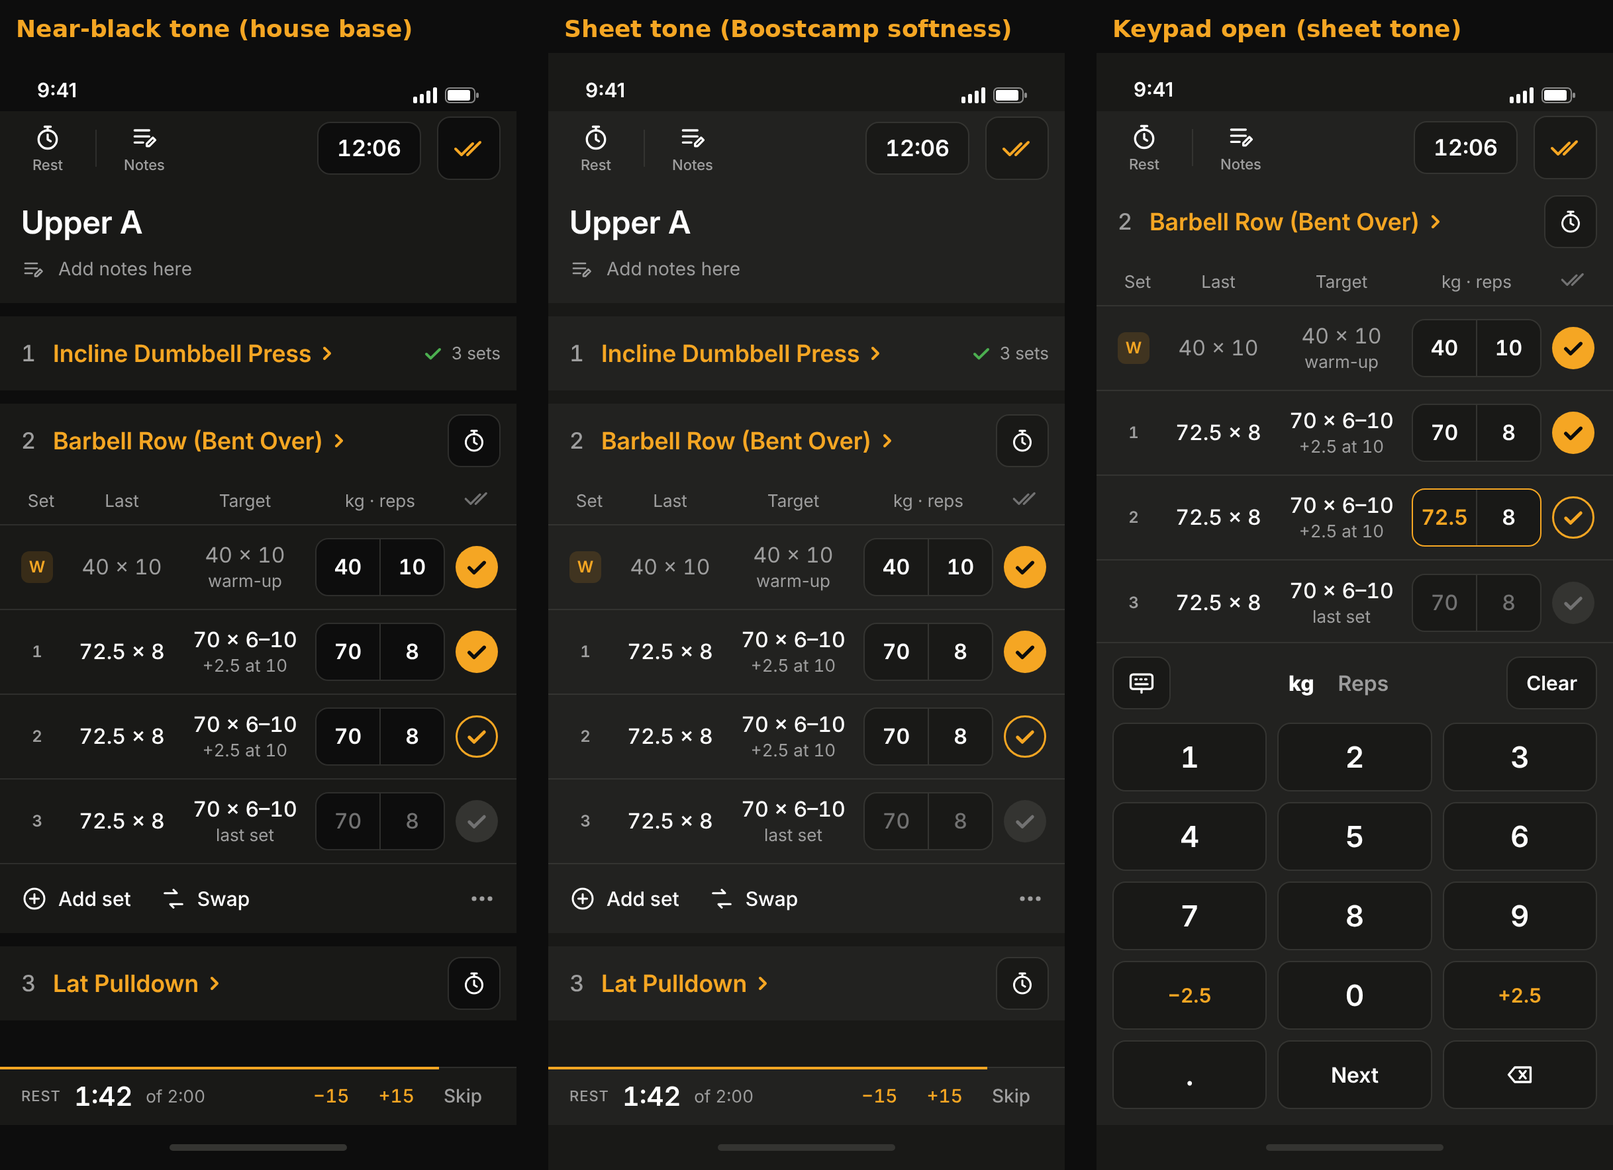
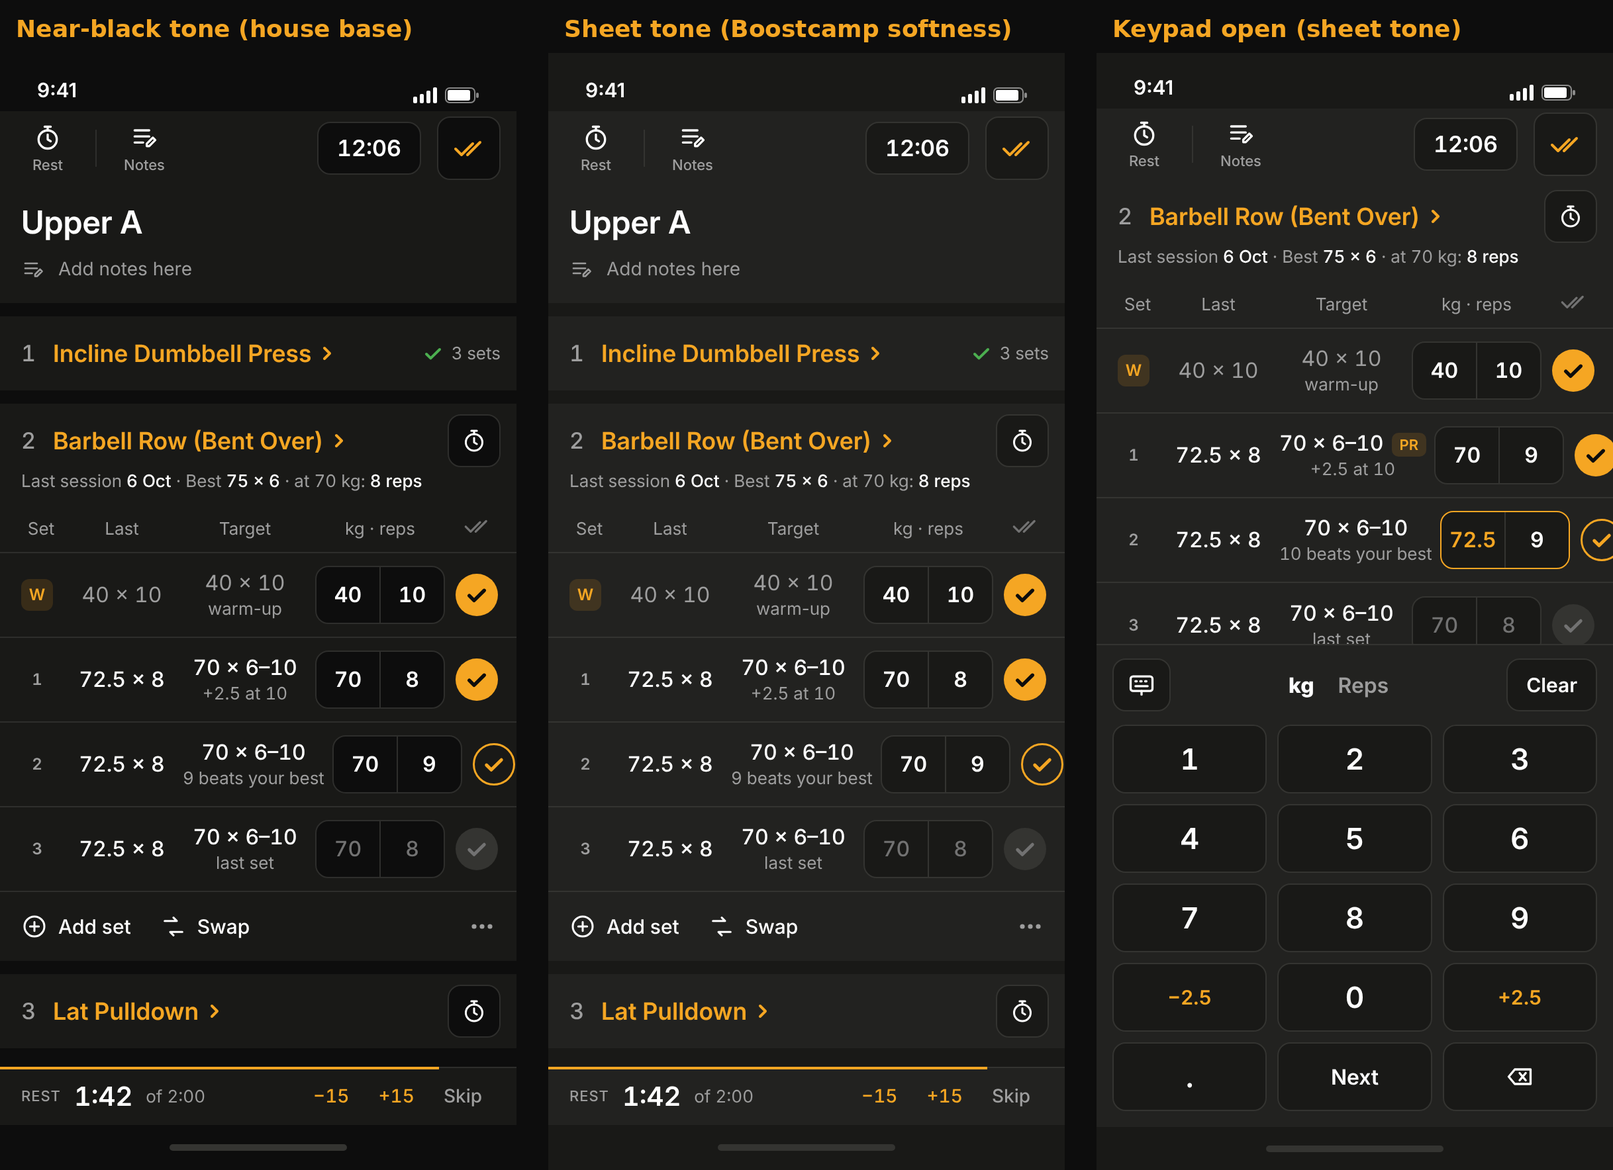
Workout logger rebuild: previous weights, reps and the PRs on the screen (D220 addendum 1)
Founder: "Make sure we have previous weights and reps and maybe even the
PRs on the screen so we can immediately go and beat them." The build
specification gains section 2a: last session on every row with a tap to
use it, a bests line under the exercise name (last date, heaviest set,
most reps at today's weight), the record threshold in the next row's
rule slot, a PR tag on a record-setting row; no estimated-max copy
returns. The drawings, the design reference and both page copies carry
the bests line and the tag.

diff --git a/docs/audit/workout-logger-audit-2026-10-06/12-design-reference.html b/docs/audit/workout-logger-audit-2026-10-06/12-design-reference.html
@@ -18,6 +18,9 @@
 .bc .band{height:10px;background:var(--pg)}
 .bc .sec{background:var(--sec)}
 .bc .xh{height:56px;display:flex;align-items:center;gap:10px;padding:0 12px 0 16px}
+.bc .bests{padding:0 16px 10px;margin-top:-6px;font-size:13px;line-height:17px;color:var(--t2)}
+.bc .bests b{color:var(--t1);font-weight:500}
+.bc .pr{display:inline-flex;align-items:center;height:18px;padding:0 6px;border-radius:5px;background:var(--abg);color:var(--a);font-size:11px;font-weight:600;margin-left:6px;vertical-align:middle}
 .bc .xh .idx{font-size:17px;font-weight:500;color:var(--t2);width:14px}
 .bc .xh .nm{font-size:18px;line-height:24px;font-weight:600;color:var(--a);display:flex;align-items:center;gap:4px;min-width:0;white-space:nowrap;overflow:hidden;text-overflow:ellipsis}
 .bc .xh .sq{margin-left:auto;width:40px;height:40px;display:flex;align-items:center;justify-content:center;background:var(--well);border:1px solid var(--wellbd);border-radius:10px;flex:0 0 auto}
@@ -82,10 +85,11 @@ html,body{margin:0;background:#0D0D0D} body{display:flex;gap:24px} .bc{border-ra
   <div class="band"></div>
   <div class="sec">
     <div class="xh"><span class="idx n">2</span><span class="nm">Barbell Row (Bent Over) <svg width="16" height="16" viewBox="0 0 16 16" fill="none" stroke="#F5A623" stroke-width="2" stroke-linecap="round" stroke-linejoin="round" style="flex:0 0 auto"><path d="M6 4l4 4-4 4"/></svg></span><span class="sq"><svg width="20" height="20" viewBox="0 0 24 24" fill="none" stroke="#FFFFFF" stroke-width="1.8" stroke-linecap="round" stroke-linejoin="round"><circle cx="12" cy="13.5" r="7.5"/><path d="M12 9.5v4l2.5 1.5M9.5 3h5M12 3v3"/></svg></span></div>
+    <div class="bests n">Last session <b>6 Oct</b> · Best <b>75 × 6</b> · at 70 kg: <b>8 reps</b></div>
     <div class="cols"><span class="c">Set</span><span class="c">Last</span><span class="c">Target</span><span class="c">kg · reps</span><span class="c"><svg width="20" height="20" viewBox="0 0 24 24" fill="none" stroke="#727272" stroke-width="2" stroke-linecap="round" stroke-linejoin="round" style="margin:0 auto"><path d="M2 12.5l4.5 4.5L15 8.5"/><path d="M11 17l9.5-9.5"/></svg></span></div>
     <div class="row"><span class="mk w">W</span><div class="cell dim"><div class="v n">40 × 10</div></div><div class="cell dim"><div class="v n">40 × 10</div><div class="s">warm-up</div></div><div class="wells n"><span>40</span><span>10</span></div><span class="chk on"><svg width="18" height="18" viewBox="0 0 16 16" fill="none" stroke="#0D0D0D" stroke-width="2.4" stroke-linecap="round" stroke-linejoin="round"><path d="M3 8.5l3.2 3.2L13 5"/></svg></span></div>
     <div class="row"><span class="mk n">1</span><div class="cell"><div class="v n">72.5 × 8</div></div><div class="cell"><div class="v n">70 × 6–10</div><div class="s n">+2.5 at 10</div></div><div class="wells n"><span>70</span><span>8</span></div><span class="chk on"><svg width="18" height="18" viewBox="0 0 16 16" fill="none" stroke="#0D0D0D" stroke-width="2.4" stroke-linecap="round" stroke-linejoin="round"><path d="M3 8.5l3.2 3.2L13 5"/></svg></span></div>
-    <div class="row"><span class="mk n">2</span><div class="cell"><div class="v n">72.5 × 8</div></div><div class="cell"><div class="v n">70 × 6–10</div><div class="s n">+2.5 at 10</div></div><div class="wells n"><span>70</span><span>8</span></div><span class="chk next"><svg width="18" height="18" viewBox="0 0 16 16" fill="none" stroke="#F5A623" stroke-width="2.2" stroke-linecap="round" stroke-linejoin="round"><path d="M3 8.5l3.2 3.2L13 5"/></svg></span></div>
+    <div class="row"><span class="mk n">2</span><div class="cell"><div class="v n">72.5 × 8</div></div><div class="cell"><div class="v n">70 × 6–10</div><div class="s n">9 beats your best</div></div><div class="wells n"><span>70</span><span>9</span></div><span class="chk next"><svg width="18" height="18" viewBox="0 0 16 16" fill="none" stroke="#F5A623" stroke-width="2.2" stroke-linecap="round" stroke-linejoin="round"><path d="M3 8.5l3.2 3.2L13 5"/></svg></span></div>
     <div class="row"><span class="mk n">3</span><div class="cell"><div class="v n">72.5 × 8</div></div><div class="cell"><div class="v n">70 × 6–10</div><div class="s">last set</div></div><div class="wells n ph"><span>70</span><span>8</span></div><span class="chk"><svg width="18" height="18" viewBox="0 0 16 16" fill="none" stroke="#727272" stroke-width="2.2" stroke-linecap="round" stroke-linejoin="round"><path d="M3 8.5l3.2 3.2L13 5"/></svg></span></div>
     <div class="ft"><span><svg width="20" height="20" viewBox="0 0 24 24" fill="none" stroke="#FFFFFF" stroke-width="1.8" stroke-linecap="round"><circle cx="12" cy="12" r="9"/><path d="M12 8v8M8 12h8"/></svg>Add set</span><span><svg width="20" height="20" viewBox="0 0 24 24" fill="none" stroke="#FFFFFF" stroke-width="1.8" stroke-linecap="round" stroke-linejoin="round"><path d="M4 7h11l-3-3M20 17H9l3 3"/></svg>Swap</span><span class="more"><svg width="20" height="20" viewBox="0 0 20 20" fill="#9E9E9E"><circle cx="4" cy="10" r="1.8"/><circle cx="10" cy="10" r="1.8"/><circle cx="16" cy="10" r="1.8"/></svg></span></div>
   </div>
@@ -108,10 +112,11 @@ html,body{margin:0;background:#0D0D0D} body{display:flex;gap:24px} .bc{border-ra
   <div class="band"></div>
   <div class="sec">
     <div class="xh"><span class="idx n">2</span><span class="nm">Barbell Row (Bent Over) <svg width="16" height="16" viewBox="0 0 16 16" fill="none" stroke="#F5A623" stroke-width="2" stroke-linecap="round" stroke-linejoin="round" style="flex:0 0 auto"><path d="M6 4l4 4-4 4"/></svg></span><span class="sq"><svg width="20" height="20" viewBox="0 0 24 24" fill="none" stroke="#FFFFFF" stroke-width="1.8" stroke-linecap="round" stroke-linejoin="round"><circle cx="12" cy="13.5" r="7.5"/><path d="M12 9.5v4l2.5 1.5M9.5 3h5M12 3v3"/></svg></span></div>
+    <div class="bests n">Last session <b>6 Oct</b> · Best <b>75 × 6</b> · at 70 kg: <b>8 reps</b></div>
     <div class="cols"><span class="c">Set</span><span class="c">Last</span><span class="c">Target</span><span class="c">kg · reps</span><span class="c"><svg width="20" height="20" viewBox="0 0 24 24" fill="none" stroke="#727272" stroke-width="2" stroke-linecap="round" stroke-linejoin="round" style="margin:0 auto"><path d="M2 12.5l4.5 4.5L15 8.5"/><path d="M11 17l9.5-9.5"/></svg></span></div>
     <div class="row"><span class="mk w">W</span><div class="cell dim"><div class="v n">40 × 10</div></div><div class="cell dim"><div class="v n">40 × 10</div><div class="s">warm-up</div></div><div class="wells n"><span>40</span><span>10</span></div><span class="chk on"><svg width="18" height="18" viewBox="0 0 16 16" fill="none" stroke="#0D0D0D" stroke-width="2.4" stroke-linecap="round" stroke-linejoin="round"><path d="M3 8.5l3.2 3.2L13 5"/></svg></span></div>
     <div class="row"><span class="mk n">1</span><div class="cell"><div class="v n">72.5 × 8</div></div><div class="cell"><div class="v n">70 × 6–10</div><div class="s n">+2.5 at 10</div></div><div class="wells n"><span>70</span><span>8</span></div><span class="chk on"><svg width="18" height="18" viewBox="0 0 16 16" fill="none" stroke="#0D0D0D" stroke-width="2.4" stroke-linecap="round" stroke-linejoin="round"><path d="M3 8.5l3.2 3.2L13 5"/></svg></span></div>
-    <div class="row"><span class="mk n">2</span><div class="cell"><div class="v n">72.5 × 8</div></div><div class="cell"><div class="v n">70 × 6–10</div><div class="s n">+2.5 at 10</div></div><div class="wells n"><span>70</span><span>8</span></div><span class="chk next"><svg width="18" height="18" viewBox="0 0 16 16" fill="none" stroke="#F5A623" stroke-width="2.2" stroke-linecap="round" stroke-linejoin="round"><path d="M3 8.5l3.2 3.2L13 5"/></svg></span></div>
+    <div class="row"><span class="mk n">2</span><div class="cell"><div class="v n">72.5 × 8</div></div><div class="cell"><div class="v n">70 × 6–10</div><div class="s n">9 beats your best</div></div><div class="wells n"><span>70</span><span>9</span></div><span class="chk next"><svg width="18" height="18" viewBox="0 0 16 16" fill="none" stroke="#F5A623" stroke-width="2.2" stroke-linecap="round" stroke-linejoin="round"><path d="M3 8.5l3.2 3.2L13 5"/></svg></span></div>
     <div class="row"><span class="mk n">3</span><div class="cell"><div class="v n">72.5 × 8</div></div><div class="cell"><div class="v n">70 × 6–10</div><div class="s">last set</div></div><div class="wells n ph"><span>70</span><span>8</span></div><span class="chk"><svg width="18" height="18" viewBox="0 0 16 16" fill="none" stroke="#727272" stroke-width="2.2" stroke-linecap="round" stroke-linejoin="round"><path d="M3 8.5l3.2 3.2L13 5"/></svg></span></div>
     <div class="ft"><span><svg width="20" height="20" viewBox="0 0 24 24" fill="none" stroke="#FFFFFF" stroke-width="1.8" stroke-linecap="round"><circle cx="12" cy="12" r="9"/><path d="M12 8v8M8 12h8"/></svg>Add set</span><span><svg width="20" height="20" viewBox="0 0 24 24" fill="none" stroke="#FFFFFF" stroke-width="1.8" stroke-linecap="round" stroke-linejoin="round"><path d="M4 7h11l-3-3M20 17H9l3 3"/></svg>Swap</span><span class="more"><svg width="20" height="20" viewBox="0 0 20 20" fill="#9E9E9E"><circle cx="4" cy="10" r="1.8"/><circle cx="10" cy="10" r="1.8"/><circle cx="16" cy="10" r="1.8"/></svg></span></div>
   </div>
@@ -131,10 +136,11 @@ html,body{margin:0;background:#0D0D0D} body{display:flex;gap:24px} .bc{border-ra
   <div class="scroll">
   <div class="sec">
     <div class="xh"><span class="idx n">2</span><span class="nm">Barbell Row (Bent Over) <svg width="16" height="16" viewBox="0 0 16 16" fill="none" stroke="#F5A623" stroke-width="2" stroke-linecap="round" stroke-linejoin="round" style="flex:0 0 auto"><path d="M6 4l4 4-4 4"/></svg></span><span class="sq"><svg width="20" height="20" viewBox="0 0 24 24" fill="none" stroke="#FFFFFF" stroke-width="1.8" stroke-linecap="round" stroke-linejoin="round"><circle cx="12" cy="13.5" r="7.5"/><path d="M12 9.5v4l2.5 1.5M9.5 3h5M12 3v3"/></svg></span></div>
+    <div class="bests n">Last session <b>6 Oct</b> · Best <b>75 × 6</b> · at 70 kg: <b>8 reps</b></div>
     <div class="cols"><span class="c">Set</span><span class="c">Last</span><span class="c">Target</span><span class="c">kg · reps</span><span class="c"><svg width="20" height="20" viewBox="0 0 24 24" fill="none" stroke="#727272" stroke-width="2" stroke-linecap="round" stroke-linejoin="round" style="margin:0 auto"><path d="M2 12.5l4.5 4.5L15 8.5"/><path d="M11 17l9.5-9.5"/></svg></span></div>
     <div class="row"><span class="mk w">W</span><div class="cell dim"><div class="v n">40 × 10</div></div><div class="cell dim"><div class="v n">40 × 10</div><div class="s">warm-up</div></div><div class="wells n"><span>40</span><span>10</span></div><span class="chk on"><svg width="18" height="18" viewBox="0 0 16 16" fill="none" stroke="#0D0D0D" stroke-width="2.4" stroke-linecap="round" stroke-linejoin="round"><path d="M3 8.5l3.2 3.2L13 5"/></svg></span></div>
-    <div class="row"><span class="mk n">1</span><div class="cell"><div class="v n">72.5 × 8</div></div><div class="cell"><div class="v n">70 × 6–10</div><div class="s n">+2.5 at 10</div></div><div class="wells n"><span>70</span><span>8</span></div><span class="chk on"><svg width="18" height="18" viewBox="0 0 16 16" fill="none" stroke="#0D0D0D" stroke-width="2.4" stroke-linecap="round" stroke-linejoin="round"><path d="M3 8.5l3.2 3.2L13 5"/></svg></span></div>
-    <div class="row"><span class="mk n">2</span><div class="cell"><div class="v n">72.5 × 8</div></div><div class="cell"><div class="v n">70 × 6–10</div><div class="s n">+2.5 at 10</div></div><div class="wells n edit"><span class="on">72.5</span><span>8</span></div><span class="chk next"><svg width="18" height="18" viewBox="0 0 16 16" fill="none" stroke="#F5A623" stroke-width="2.2" stroke-linecap="round" stroke-linejoin="round"><path d="M3 8.5l3.2 3.2L13 5"/></svg></span></div>
+    <div class="row"><span class="mk n">1</span><div class="cell"><div class="v n">72.5 × 8</div></div><div class="cell"><div class="v n">70 × 6–10<span class="pr">PR</span></div><div class="s n">+2.5 at 10</div></div><div class="wells n"><span>70</span><span>9</span></div><span class="chk on"><svg width="18" height="18" viewBox="0 0 16 16" fill="none" stroke="#0D0D0D" stroke-width="2.4" stroke-linecap="round" stroke-linejoin="round"><path d="M3 8.5l3.2 3.2L13 5"/></svg></span></div>
+    <div class="row"><span class="mk n">2</span><div class="cell"><div class="v n">72.5 × 8</div></div><div class="cell"><div class="v n">70 × 6–10</div><div class="s n">10 beats your best</div></div><div class="wells n edit"><span class="on">72.5</span><span>9</span></div><span class="chk next"><svg width="18" height="18" viewBox="0 0 16 16" fill="none" stroke="#F5A623" stroke-width="2.2" stroke-linecap="round" stroke-linejoin="round"><path d="M3 8.5l3.2 3.2L13 5"/></svg></span></div>
     <div class="row"><span class="mk n">3</span><div class="cell"><div class="v n">72.5 × 8</div></div><div class="cell"><div class="v n">70 × 6–10</div><div class="s">last set</div></div><div class="wells n ph"><span>70</span><span>8</span></div><span class="chk"><svg width="18" height="18" viewBox="0 0 16 16" fill="none" stroke="#727272" stroke-width="2.2" stroke-linecap="round" stroke-linejoin="round"><path d="M3 8.5l3.2 3.2L13 5"/></svg></span></div>
   </div>
   </div>

diff --git a/docs/audit/workout-logger-audit-2026-10-06/08-research-page.html b/docs/audit/workout-logger-audit-2026-10-06/08-research-page.html
@@ -613,7 +613,7 @@ table.cmp.tight td,table.cmp.tight th{padding:8px 8px}
 <li><b>Toolbar.</b> Rest and Notes as glyph-over-label tools; the session clock in a well; Finish as the amber double check in a well. Rest opens the full rest view (the countdown at 40 and the next set at 24, the far-distance view from section 5); whether it opens itself after Log is a setting.</li>
 <li><b>Session header.</b> "Upper A" at 24, a note line.</li>
 <li><b>Finished exercise</b> collapsed to its header with a green check and "3 sets". The active exercise expanded; the next exercise as its header. Tap a header to open it.</li>
-<li><b>Exercise header.</b> Index in grey, name at 18 in amber with the chevron (details and swap), the per-exercise rest button at the right.</li>
+<li><b>Exercise header.</b> Index in grey, name at 18 in amber with the chevron (details and swap), the per-exercise rest button at the right. Under it the bests line (founder addition, 7 October): last session's date, the heaviest set ever, and the most reps ever at today's weight, so the number to beat is on screen before the set. A row that sets a record carries a small PR tag; the next row's rule slot says "9 beats your best" when a record is one rep away.</li>
 <li><b>Columns.</b> Set, Last, Target, kg · reps, and the tick-all glyph (logs every remaining set as planned, the one-tap default from section 10).</li>
 <li><b>Rows</b> at 64 with hairlines: W badge for the warm-up (only when one is logged), numbers for working sets, Last as last session's set, Target as the coach's numbers over the coach's rule, the joined wells, the check. Done rows: white values, amber check. The next set: the coach's numbers filled in white and an amber ring. Later sets: grey placeholders.</li>
 <li><b>Footer.</b> Add set, Swap, overflow.</li>

diff --git a/docs/audit/workout-logger-audit-2026-10-06/12-BUILD-SPEC.md b/docs/audit/workout-logger-audit-2026-10-06/12-BUILD-SPEC.md
@@ -88,13 +88,51 @@ campaign), the watch, any engine change, any ED-safety surface.
 | Keypad | panel `colors.surface` with a top hairline; keys 52 dp, well-styled, `type.num('h3')` semibold; step keys `colors.primary`; tabs `type.bodyStrong`; Clear and keyboard toggle as wells |
 | Sizes | row 64, section header 56, footer 52, columns row 36, wells 44 tall × 2 × 48 wide, check 32 |
 
+
+## 2a. Founder addition, 2026-10-07: previous weights and reps, and the PRs, on the screen
+
+Founder, verbatim: "Make sure we have previous weights and reps and maybe
+even the PRs on the screen so we can immediately go and beat them."
+
+What this adds to the design (all from data the screen already loads:
+`prevSets` and `allTimeSets` in `loadHistory`, AWS:2433-2730, and the
+record system `lib/workoutRecordLine.js` and `detectPR`):
+
+1. Every row's Last cell shows last session's set at that position
+   (weight × reps); when last session had no set at that position, the
+   most recent one at the position before it, marked with a muted dot.
+   Tapping Last on the next row fills the wells with it (the "Use" action).
+2. A bests line under the exercise name, inside the section header, at
+   `type.label` `colors.textSecondary` with the numbers in `colors.textPrimary`:
+   "Last session 6 Oct · Best 75 kg × 6 · at 70 kg: 8 reps". The three
+   facts: when the exercise was last done; the heaviest set ever (weight
+   and its reps); the most reps ever at today's working weight (the next
+   row's weight), which is the number to beat. No estimated max in this
+   line (the retired routine est-max copy stays retired; the e1RM record
+   lives in the PR toast and the records screens).
+3. The next row's Target rule slot carries the record threshold whenever
+   one exists for the row's weight: "9 reps beats your best" (from
+   `buildRecordLine`); otherwise the progression rule. Plain, numbers
+   first, no "you should", no "crush".
+4. A logged row that set a record shows a small "PR" tag after its values
+   (`colors.primaryBg` fill, `colors.primary` text, `captionStrong`), the
+   way the calm toast already marks it the moment it happens.
+5. Reps and weight that beat the best are not styled differently in the
+   wells; the tag and the toast carry it. Nothing nags: a session below
+   the best shows the facts and no comment.
+
+Props added: `ExerciseSection` gets `bests` ({ lastDateLabel, heaviest:
+{ weight, reps }, atWeight: { weight, reps } } or null) and renders the
+line when present; `SetRow` gets `record: boolean` for the tag and `last`
+may carry `{ text, stale: boolean }`.
+
 ## 3. Components, props, tests (lane B1 and B2 build these; the lead wires them)
 
 - `SessionToolbar({ startTime, onClose, onRest, onNotes, onFinish, finishBusy })`: keeps `testID="volyume-workout-close"` and
   `testID="volyume-workout-finish"` (existing tests); new `volyume-tool-rest`, `volyume-tool-notes`. Contains `SessionClock`.
 - `SessionHeader({ name, note, onNotes })`.
-- `ExerciseSection({ index, name, state: 'active'|'done'|'upcoming', doneSetCount, onPressHeader, onDetails, onRestLength, onAddSet, onSwap, onMore, children })`: active renders children (the table and any banners the screen passes); done shows a green check and "{n} sets"; upcoming shows the header only.
-- `SetTable({ rows, onLogRemaining, onPressWell, onCheck, columnsLabel: {weight} })` and `SetRow({ marker: 'W'|'F'|number, last, target: { value, rule }, wells: { weight, reps, state: 'logged'|'next'|'pending'|'editing', editingField }, check: 'logged'|'next'|'pending', onPressWell, onCheck, testIDs })`.
+- `ExerciseSection({ index, name, state: 'active'|'done'|'upcoming', doneSetCount, bests, onPressHeader, onDetails, onRestLength, onAddSet, onSwap, onMore, children })` (bests per section 2a): active renders children (the table and any banners the screen passes); done shows a green check and "{n} sets"; upcoming shows the header only.
+- `SetTable({ rows, onLogRemaining, onPressWell, onCheck, columnsLabel: {weight} })` and `SetRow({ marker: 'W'|'F'|number, last: { text, stale }, target: { value, rule }, wells: { weight, reps, state: 'logged'|'next'|'pending'|'editing', editingField }, check: 'logged'|'next'|'pending', record, onPressLast, onPressWell, onCheck, testIDs })` (record tag and stale last per section 2a).
   The next row carries `testID="volyume-btn-complete-set"` on its check (the existing test id of the primary), so the behaviour suites keep pressing the same id.
 - `Keypad({ field: 'weight'|'reps', value, step, unit, onKey, onStep, onClear, onNext, onDone, onSystemKeyboard })`: digits, point (weight only), backspace, −step, +step, Next, Done; TalkBack: `accessibilityRole="keyboardkey"` where available, else button with labels "Add 2.5 kilograms" etc.
 - `RestSheet`, `SessionNotesSheet`, `ExerciseRestSheet` on the house `BottomSheet`; the rest sheet reads the store's rest fields the way `RestTimer` does (RT:63-74) and calls the same adjust and skip actions.

diff --git a/docs/ux-world-class-audit-2026-07-09/DECISIONS-2026-07-09.md b/docs/ux-world-class-audit-2026-07-09/DECISIONS-2026-07-09.md
@@ -11908,3 +11908,5 @@ Asked in chat as a multiple-choice form (founder order: "Ask the questions multi
 **Evidence carried in:** 09 (the field and the legibility sources), 10 (the user base: 87% of sets inside the band, 12% of weights off the plate grid, 8.5% edited later, the keypad therefore first-class), A5 (the field's users: one-tap logging as prescribed, last time at the point of entry, the rest screen showing the next load, input mode as a taste, auto-advance divisive so the next exercise is always a tap or the existing 1.8 s advance).
 
 **Build record:** `12-BUILD-SPEC.md` (architecture, visual spec, props, the job of every retired control, stages, re-pinned laws, device checklist, risks); lane briefs `briefs/B1-session-components.md`, `briefs/B2-session-sheets.md`.
+
+**D220 addendum 1 (2026-10-07, founder):** "Make sure we have previous weights and reps and maybe even the PRs on the screen so we can immediately go and beat them." Carried into `12-BUILD-SPEC.md` section 2a: last session on every row (with a tap to use it), a bests line under the exercise name (last date, heaviest set, most reps at today's weight), the record threshold in the next row's rule slot, a PR tag on a record-setting row. No estimated-max copy returns to the rows; the PR toast and the bans stand.
